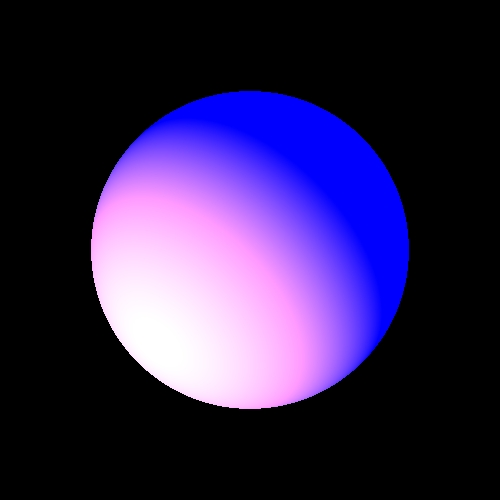
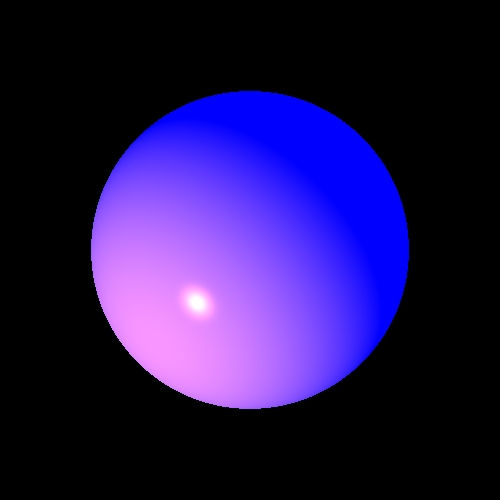
end part 6

Changed region(s): [[0.18, 0.24, 0.75, 0.84]]

diff --git a/src/renderer/Render.java b/src/renderer/Render.java
@@ -9,7 +9,9 @@ import java.util.List;
 import geometries.Intersectable.GeoPoint;
 import static geometries.Intersectable.GeoPoint;
 import static java.lang.Math.*;
+import static java.lang.System.out;
 import static primitives.Util.alignZero;
+import static primitives.Util.isZero;
 
 /***
  * class Render, responsible to take all the calculation of ray intersections
@@ -75,37 +77,36 @@ public class Render {
      */
    private Color calcColor(GeoPoint intersection){
        Color color = scene.get_ambientlight().get_intensity();
-
        color = color.add(intersection.geometry.get_emission());
 
-       Vector v = intersection.point.subtruct(scene.get_camera().getPlaceable()).normalize();
+       Vector v = intersection.point.subtruct(scene.get_camera().getPlaceable()).normalized();
        Vector n = intersection.geometry.getNormal(intersection.point);
        Material material =intersection.geometry.get_material();
        int nShininess = material.getnShininess();
        double kd = material.getkD();
        double ks = material.getkS();
+
        for (LightSource lightSource : scene.get_lights()) {
            Vector l = lightSource.getL(intersection.point);
-           if (signum(n.dotProduct(l)) == signum(n.dotProduct(v))) {
+           if (signum(n.dotProduct(l)) == signum(n.dotProduct(v)) && !isZero(n.dotProduct(l)) && !isZero(n.dotProduct(v))) {
                Color lightIntensity = lightSource.getIntensity(intersection.point);
-               color = color.add(calcDiffusive(kd, l, n, lightIntensity),
-                       calcSpecular(ks, l, n, v, nShininess, lightIntensity));
+               color = color.add(calcDiffusive(kd, l, n, lightIntensity), calcSpecular(ks, l, n, v, nShininess, lightIntensity));
            }
        }
        return color;
    }
 
     private Color calcDiffusive(double kd, Vector l, Vector n, Color lightIntensity) {
-        return lightIntensity.scale(kd * abs(l.dotProduct(n)));
+        return lightIntensity.scale(kd * Math.abs(l.dotProduct(n)));
     }
 
     private Color calcSpecular(double ks, Vector l, Vector n, Vector v, int nShininess, Color lightIntensity) {
        Vector r = l.subtruct(n.scale(2*l.dotProduct(n))).normalized();  // r = l - 2*(l-n)*n
-       double vr = alignZero(-v.dotProduct(r));
+       double vr = alignZero(v.dotProduct(r));
 
         if(vr >= 0)
             return Color.BLACK;
-        return lightIntensity.scale(ks * pow(vr , nShininess));
+        return lightIntensity.scale(ks * pow(-vr , nShininess));
     }
 
 

diff --git a/src/scene/Scene.java b/src/scene/Scene.java
@@ -10,8 +10,12 @@ import primitives.Color;
 import primitives.Point3D;
 
 import java.util.ArrayList;
+import java.util.Arrays;
 import java.util.LinkedList;
 import java.util.List;
+
+import static java.lang.System.out;
+import static java.util.Arrays.asList;
 
 /***
  * Scene class store all the scene components, including
@@ -145,12 +149,7 @@ public class Scene {
      * function to add light to the list of lights
      * @param lights a single element to add to the list
      */
-    public void addLights(LightSource lights){
-        if (_lights == null) {
-            _lights = new LinkedList<>();
-        }
-        _lights.add(lights);
+    public void addLights(LightSource... lights){
+        _lights.addAll(asList(lights));
     }
-
-    //public void addGeometries(Triangle triangle, Triangle triangle1, Triangle triangle2, Triangle triangle3) { }
 }

diff --git a/src/elements/pointLight.java b/src/elements/pointLight.java
@@ -4,6 +4,8 @@ import primitives.Color;
 import primitives.Point3D;
 import primitives.Vector;
 
+import static java.lang.System.out;
+
 /***
  * class to represent omni-directional point source,
  * meaning that the rays of the light spread to all the
@@ -34,11 +36,11 @@ public class pointLight extends Light implements LightSource {
     @Override
     public Color getIntensity(Point3D p) {
         double d = p.distance(_position);
-        return _intensity.reduce((_kC + _kl*d + _kQ * d * d));
+        return _intensity.reduce(_kC + _kl*d + _kQ * d * d);
     }
 
     @Override
     public Vector getL(Point3D p) {
-        return p.subtruct(_position).normalized();
+        return (p.subtruct(_position)).normalized();
     }
 }

diff --git a/src/geometries/Geometry.java b/src/geometries/Geometry.java
@@ -17,16 +17,14 @@ public abstract class Geometry implements Intersectable {
      * Geometry constructor with specific color
      */
     public Geometry(Color _emission) {
-        this._emission = _emission;
-        this._material = new Material(0, 0, 0);
+        this(_emission,new Material(0, 0, 0));
     }
 
     /**
      * Geometry constructor with color black
      */
     public Geometry() {
-        this._emission = Color.BLACK;
-        this._material = new Material(0, 0, 0);
+        this(Color.BLACK,new Material(0, 0, 0));
     }
 
     /***

diff --git a/src/elements/DirectionalLight.java b/src/elements/DirectionalLight.java
@@ -30,6 +30,6 @@ public class DirectionalLight extends Light implements LightSource{
 
     @Override
     public Vector getL(Point3D p) {
-        return _direction;
+        return _direction.normalized();
     }
 }

diff --git a/src/elements/Light.java b/src/elements/Light.java
@@ -8,7 +8,7 @@ import primitives.Color;
  * to the objects(התפשטות קרני האור)
  */
 
-public abstract class Light {
+abstract class Light {
 
     protected Color _intensity;
 
